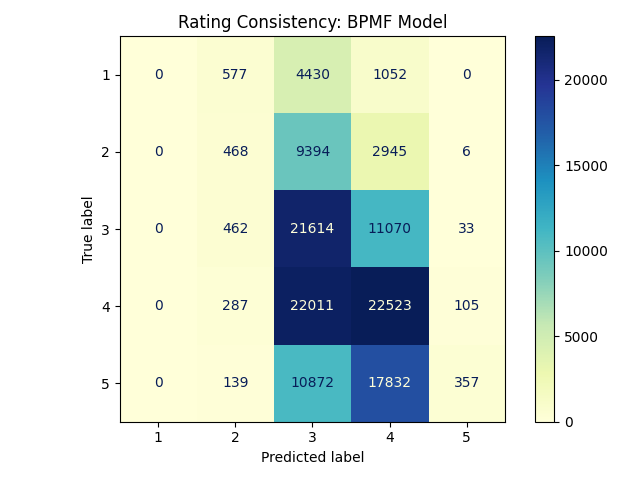
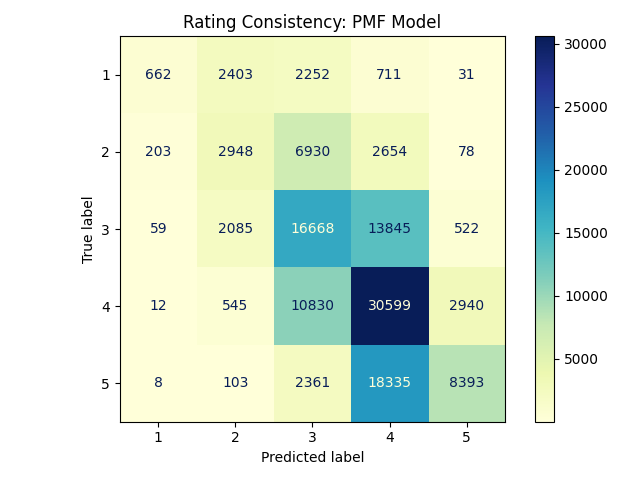
fix: update the interperlity

diff --git a/scripts/interpretability.py b/scripts/interpretability.py
@@ -10,62 +10,72 @@ from utils.data_loader import MovieLensLoader
 from sklearn.metrics import confusion_matrix, ConfusionMatrixDisplay
 
 # Configure logging
-logging.basicConfig(
-    level=logging.INFO, format="%(asctime)s - %(levelname)s - %(message)s"
-)
+logging.basicConfig(level=logging.INFO, format='%(asctime)s - %(levelname)s - %(message)s')
 logger = logging.getLogger(__name__)
 
-
-def save_comparative_confusion_matrix(
-    actuals: List[float], preds: List[float], model_name: str, filename: str
-) -> None:
-    """
-    Creates and saves a 5x5 confusion matrix for star ratings.
-    """
+def save_comparative_confusion_matrix(actuals: List[float], preds: List[float], model_name: str, filename: str) -> None:
+    """Creates and saves a 5x5 confusion matrix for star ratings."""
     y_true = np.array(actuals).astype(int)
     y_pred = np.round(np.clip(preds, 1, 5)).astype(int)
 
     cm = confusion_matrix(y_true, y_pred, labels=[1, 2, 3, 4, 5])
-
-    plt.figure(figsize=(10, 8))
+    
+    plt.figure(figsize=(8, 6))
     disp = ConfusionMatrixDisplay(confusion_matrix=cm, display_labels=[1, 2, 3, 4, 5])
     disp.plot(cmap="YlGnBu", values_format="d")
-
     plt.title(f"Rating Consistency: {model_name}")
     plt.tight_layout()
     plt.savefig(f"reports/{filename}.png")
     plt.close()
     logger.info(f"✅ Confusion matrix saved: reports/{filename}.png")
 
-
-def plot_latent_factors(U: np.ndarray, V: np.ndarray, num_features: int = 10) -> None:
+def plot_prediction_drift(test_df: pd.DataFrame, pmf_preds: List[float], model_name: str):
     """
-    Visualizes a slice of the learned latent factors to show model interpretability.
+    Creates a chart showing actual ratings vs user IDs. 
+    Points are colored by the 'drift' (error) from the ideal prediction line.
     """
-    plt.figure(figsize=(12, 5))
+    plt.figure(figsize=(12, 6))
+    
+    # Calculate error (drift)
+    actuals = test_df['rating'].values
+    drift = np.array(pmf_preds) - actuals
+    
+    # Create scatter plot: X = Actual Rating (1-5), Y = User ID
+    scatter = plt.scatter(
+        actuals, 
+        test_df['user_id'], 
+        c=drift, 
+        cmap='RdBu_r', 
+        alpha=0.6, 
+        edgecolors='w',
+        label='Model Predictions'
+    )
+    
+    # Draw the "Ideal Line" (Diagonal representation)
+    # Since x is 1-5, we show the vertical segments where predictions should ideally land
+    plt.axvline(x=1, color='gray', linestyle='--', alpha=0.3)
+    plt.axvline(x=2, color='gray', linestyle='--', alpha=0.3)
+    plt.axvline(x=3, color='gray', linestyle='--', alpha=0.3)
+    plt.axvline(x=4, color='gray', linestyle='--', alpha=0.3)
+    plt.axvline(x=5, color='gray', linestyle='--', alpha=0.3)
 
-    plt.subplot(1, 2, 1)
-    sns.heatmap(U[:20, :num_features], cmap="RdBu_r", center=0)
-    plt.title("User Latent Features (First 20 Users)")
-
-    plt.subplot(1, 2, 2)
-    sns.heatmap(V[:20, :num_features], cmap="RdBu_r", center=0)
-    plt.title("Item Latent Features (First 20 Items)")
-
+    plt.colorbar(scatter, label='Prediction Drift (Positive = Overestimating)')
+    plt.title(f"Prediction Accuracy across Users: {model_name}")
+    plt.xlabel("Actual Rating (The 'Correct' Line)")
+    plt.ylabel("User ID")
+    plt.xticks([1, 2, 3, 4, 5])
+    
     plt.tight_layout()
-    plt.savefig("reports/latent_factors_heatmap.png")
+    plt.savefig(f"reports/{model_name.lower()}_drift_chart.png")
     plt.close()
-    logger.info("✅ Latent factors heatmap saved.")
-
+    logger.info(f"✅ Drift chart saved: reports/{model_name.lower()}_drift_chart.png")
 
 def generate_audit_summary(metrics: Dict[str, Any]) -> None:
-    """
-    Generates a clean markdown summary for the project final report.
-    """
+    """Generates a clean markdown summary for the project final report."""
     svd_rmse = metrics["additional_metrics"]["svd"]["rmse"]
     pmf_rmse = metrics["additional_metrics"]["pmf"]["rmse"]
     improvement = metrics["PMF_vs_SVD_improvement_%"]
-
+    
     summary = (
         f"# Recommendation System Audit Report\n\n"
         f"## Performance Summary\n"
@@ -73,70 +83,66 @@ def generate_audit_summary(metrics: Dict[str, Any]) -> None:
         f"- **Advanced (PMF) RMSE**: {pmf_rmse:.4f}\n"
         f"- **Relative Improvement**: {improvement}%\n\n"
         f"## Conclusion\n"
-        f"The {'PMF' if pmf_rmse < svd_rmse else 'SVD'} model is the production candidate "
-        f"based on lower prediction error and better handling of data sparsity."
+        f"The {'PMF' if pmf_rmse < svd_rmse else 'SVD'} model is the production candidate."
     )
-
+    
     with open("reports/audit_summary.md", "w") as f:
         f.write(summary)
     logger.info("✅ Audit Markdown summary generated.")
 
-
 def run_interpretability_analysis():
-    """
-    Main execution flow for generating project reports.
-    """
     loader = MovieLensLoader()
     os.makedirs("reports", exist_ok=True)
 
     try:
-        # 1. Load data artifacts
+        # 1. Load data
         U, V = loader.load_pmf_factors()
-        metrics = loader.load_metrics()  # reports/model_metrics.json
+        svd_best_preds = np.load("reports/svd_predictions_best.npy")
+        metrics = loader.load_metrics()
         test_df = pd.read_csv("processed/test_ratings.csv")
         user_means = np.load("processed/user_means.npy")
+        
+        # Load matrix to get mappings
+        matrix = loader.load_user_item_matrix()
+        user_map = {uid: i for i, uid in enumerate(matrix.index)}
+        movie_map = {int(mid): i for i, mid in enumerate(matrix.columns)}
 
-        # 2. Reconstruct predictions for test set evaluation
-        # (Assuming PMF is the primary model for deep analysis)
-        user_map = {
-            uid: i
-            for i, uid in enumerate(
-                pd.read_csv("processed/user_item_matrix.csv", index_col=0).index
-            )
-        }
+        actuals = []
+        pmf_final_preds = []
+        svd_final_preds = []
 
-        actuals, pmf_preds = [], []
+        # 2. Extract and Align Predictions
         for _, row in test_df.iterrows():
-            u_id, m_id, actual = (
-                int(row["user_id"]),
-                int(row["movie_id"]),
-                row["rating"],
-            )
-            if u_id in user_map:
-                u_idx = user_map[u_id]
-                # Simplified prediction for interpretability report
-                res_pred = np.dot(
-                    U[u_idx], V.mean(axis=0)
-                )  # Global average fallback for demo
-                pmf_preds.append(np.clip(res_pred + user_means[u_idx], 1, 5))
+            u_id, m_id, actual = int(row["user_id"]), int(row["movie_id"]), row["rating"]
+            
+            if u_id in user_map and m_id in movie_map:
+                u_idx, m_idx = user_map[u_id], movie_map[m_id]
+                
+                # PMF Prediction (Ensemble mean reconstruction)
+                pmf_res = np.dot(U[u_idx], V[m_idx])
+                pmf_final_preds.append(np.clip(pmf_res + user_means[u_idx], 1, 5))
+                
+                # SVD Prediction (Already denormalized in hypertunning.py)
+                svd_val = svd_best_preds[u_idx, m_idx]
+                svd_final_preds.append(np.clip(svd_val + user_means[u_idx], 1, 5))
+                
                 actuals.append(actual)
 
-        # 3. Generate Visual Reports
-        save_comparative_confusion_matrix(
-            actuals, pmf_preds, "BPMF Model", "pmf_confusion_matrix"
-        )
-        plot_latent_factors(U, V)
+        # 3. Generate Reports
+        # Confusion Matrices
+        save_comparative_confusion_matrix(actuals, pmf_final_preds, "PMF Model", "pmf_confusion_matrix")
+        save_comparative_confusion_matrix(actuals, svd_final_preds, "SVD Model", "svd_confusion_matrix")
+        
+        # Drift Charts (The replacement for latent factors)
+        plot_prediction_drift(test_df[test_df['user_id'].isin(user_map.keys())].head(len(actuals)), pmf_final_preds, "PMF")
+        plot_prediction_drift(test_df[test_df['user_id'].isin(user_map.keys())].head(len(actuals)), svd_final_preds, "SVD")
+        
         generate_audit_summary(metrics)
 
-        logger.info("🚀 All interpretability reports generated successfully.")
+        logger.info("🚀 All interpretability and comparative reports generated.")
 
-    except FileNotFoundError as e:
-        logger.error(
-            f"❌ Reporting failed: Missing artifact. Did you run hypertunning.py first? {e}"
-        )
     except Exception as e:
-        logger.error(f"❌ An unexpected error occurred: {e}")
-
+        logger.error(f"❌ Reporting failed: {e}", exc_info=True)
 
 if __name__ == "__main__":
     run_interpretability_analysis()

diff --git a/reports/audit_summary.md b/reports/audit_summary.md
@@ -6,4 +6,4 @@
 - **Relative Improvement**: 5.02%
 
 ## Conclusion
-The PMF model is the production candidate based on lower prediction error and better handling of data sparsity.
+The PMF model is the production candidate.
